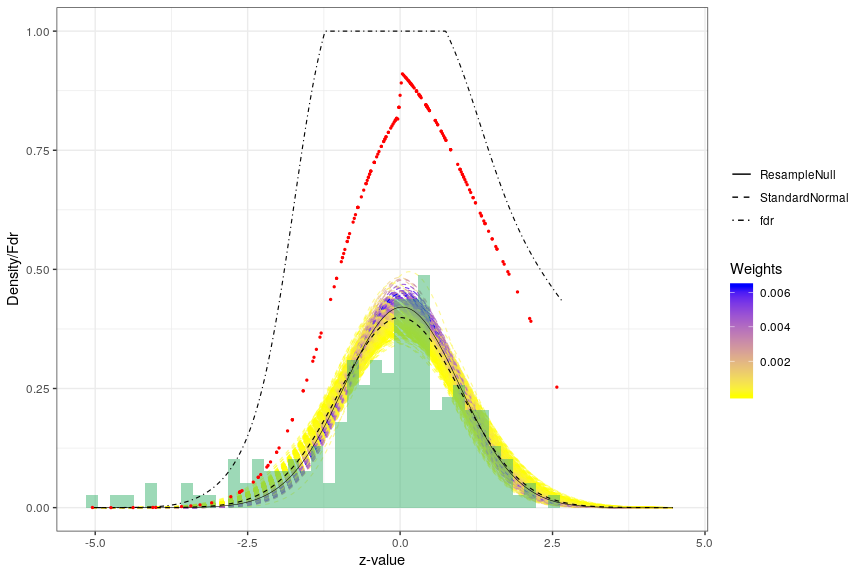
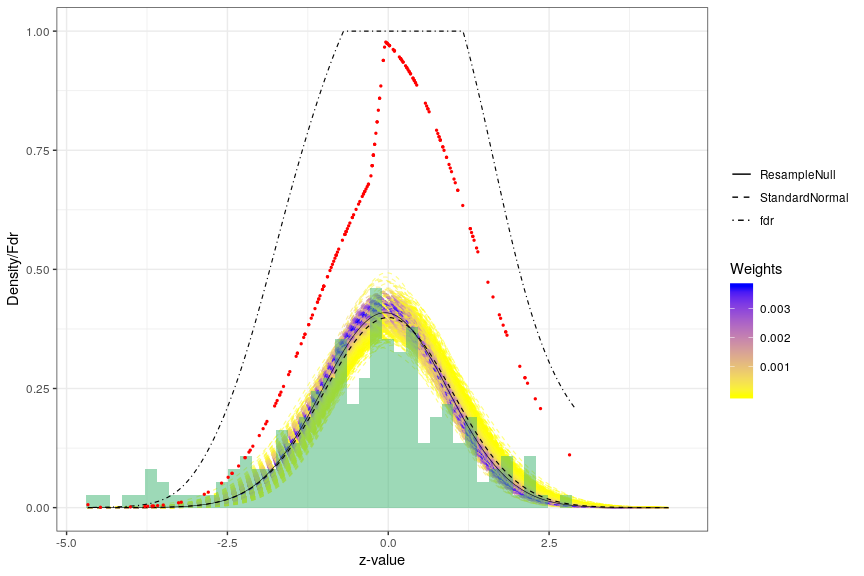
Preparing for bioconductor submission

diff --git a/README.md b/README.md
@@ -9,7 +9,14 @@ A short tutorial is given here, more detailed instructions can be found in the v
 Installation
 ============
 
-The package can be installed using the following commands:
+The package can be installed and loaded using the following commands:
+
+``` r
+library(BiocManager)
+install("reconsi", update = FALSE)
+```
+
+Alternatively, the latest version can be installed directly from this GitHub repo as follows:
 
 ``` r
 library(devtools)
@@ -19,8 +26,11 @@ install_github("CenterForStatistics-Ugent/reconsi")
 and loaded as
 
 ``` r
-library(reconsi)
+suppressPackageStartupMessages(library(reconsi, quietly = TRUE, warn.conflicts = FALSE))
+cat("reconsi package version", as.character(packageVersion("reconsi")), "\n")
 ```
+
+    ## reconsi package version 0.99.2
 
 General use
 ===========
@@ -32,10 +42,9 @@ We illustrate the general use of the package on a synthetic dataset. The default
 p = 200
 n = 50
 x = rep(c(0, 1), each = n/2)
-mat = cbind(matrix(rnorm(n * p/10, mean = 5 + x), n, p/10), matrix(rnorm(n * 
-    p * 9/10, mean = 5), n, p * 9/10))
-# Provide just the matrix and grouping factor, and test using the collapsed
-# null
+mat = cbind(matrix(rnorm(n * p/10, mean = 5 + x), n, p/10), matrix(rnorm(n * p * 
+    9/10, mean = 5), n, p * 9/10))
+# Provide just the matrix and grouping factor, and test using the collapsed null
 fdrRes = reconsi(mat, x)
 # The estimated tail-area false discovery rates.
 estFdr = fdrRes$Fdr
@@ -47,7 +56,7 @@ The method provides an estimate of the proportion of true null hypothesis, which
 fdrRes$p0
 ```
 
-    ## [1] 0.8751848
+    ## [1] 0.8466768
 
 The result of the procedure can be represented graphically as follows:
 
@@ -79,8 +88,8 @@ We illustrate the package using an application from microbiology. The species co
 The dataset used is taken from Vandeputte *et al.*, 2017 (see [manuscript](https://www.ncbi.nlm.nih.gov/pubmed/29143816)), a study on gut microbiome in healthy and Crohn's disease patients. The test looks for differences in absolute abundance between healthy and diseased patients. It relies on the [phyloseq](https://bioconductor.org/packages/release/bioc/html/phyloseq.html) package, which is the preferred way to interact with our machinery for microbiome data.
 
 ``` r
-# The grouping and flow cytometry variables are present in the phyloseq
-# object, they only need to be called by their name.
+# The grouping and flow cytometry variables are present in the phyloseq object,
+# they only need to be called by their name.
 testVanDePutte = testDAA(Vandeputte, groupName = "Health.status", FCname = "absCountFrozen", 
     B = 100L)
 ```
@@ -93,7 +102,7 @@ quantile(FdrVDP)
 ```
 
     ##           0%          25%          50%          75%         100% 
-    ## 1.554661e-18 1.455041e-02 3.015831e-01 7.276982e-01 8.680592e-01
+    ## 1.238700e-18 1.423598e-02 3.001290e-01 7.287774e-01 8.703789e-01
 
 An approximation of the correlation matrix of the test statistics can be drawn as follows:
 
